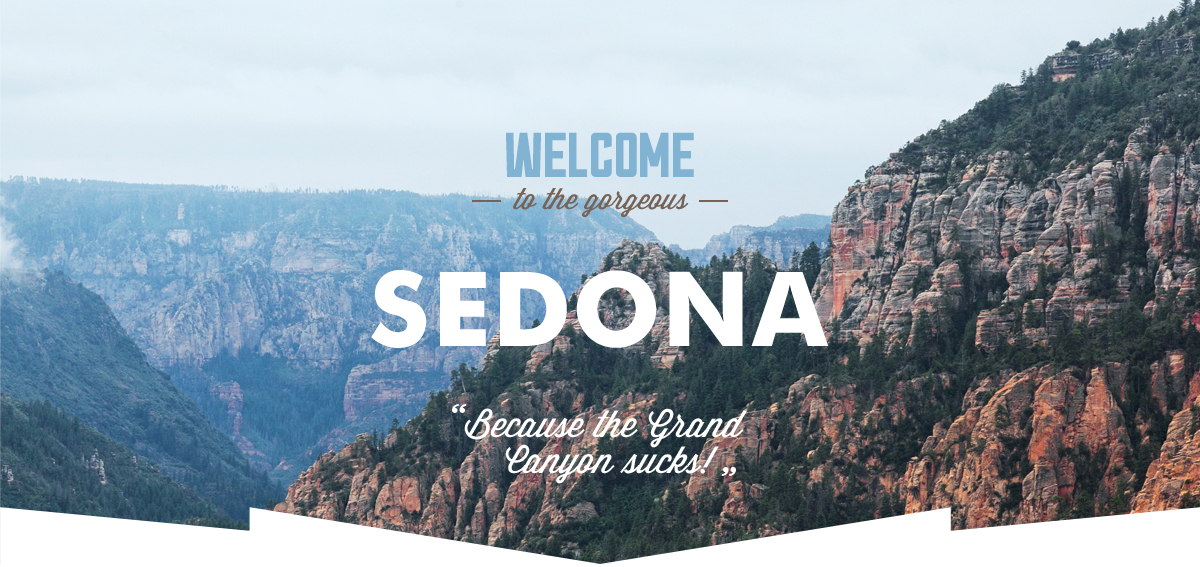
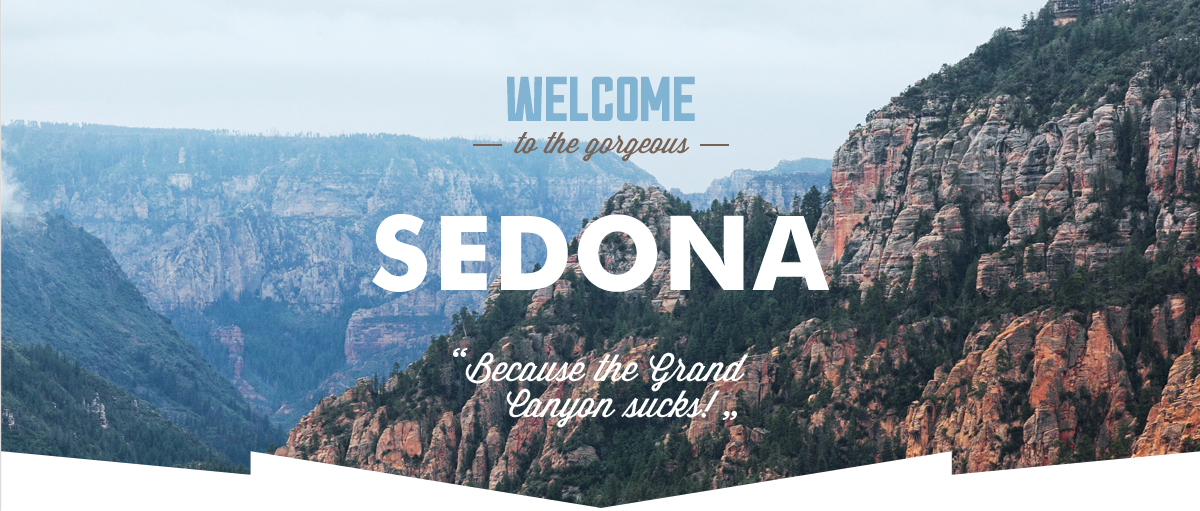
Откорретировал согласно пиксель перфект главную страницу

diff --git a/index.html b/index.html
@@ -30,15 +30,15 @@
     </header>
     <main>
       <div class="promo clearfix">
-        <h1 class="promo-header">Седона-небольшой городок в Аризоне, заслуживающий большего!</h1>
+        <h1 class="promo-header">Седона – небольшой городок в Аризоне, заслуживающий большего!</h1>
         <p class="promo-text">Рассмотрим 5 причин, по которым Седона круче, чем Гранд Каньон!</p>
       </div>
       <div class="features">
         <div class="features-row">
           <div class="feature-item item-blue">
             <h2 class="feature-item-name">Настоящий городок</h2>
-            <p class="feature-item-description"><span class="feature-number">–№1–</span>
-              Седона- не аттракцион для туристов, там течет своя жизнь</p>
+            <p class="feature-item-description"><span class="feature-number">– №1 –</span>
+              Седона – не аттракцион для туристов, <br>там течет своя жизнь</p>
             </div>
             <div class="feature-image">
               <img src="img/img1.jpg" alt="Седона" width="800" height="255">
@@ -63,25 +63,25 @@
               <img src="img/img2.jpg" alt="Седона-Горы" width="800" height="255">
             </div>
             <div class="feature-item item-blue">
-              <h2 class="feature-item-name">Там есть мост дьявола</h2>
-              <p class="feature-item-description"><span class="feature-number">–№2–</span>
+              <h2 class="feature-item-name">Там есть <br> мост дьявола</h2>
+              <p class="feature-item-description"><span class="feature-number">– №2 –</span>
                 Да, по нему можно пройти! Если, конечно, Вы осмелитесь</p>
               </div>
             </div>
             <div class="feature-row clearfix">
               <div class="feature-item item-grey">
                 <h2 class="feature-item-name">Небольшая площадь</h2>
-                <p class="feature-item-description"><span class="feature-number">–№3–</span>
-                  Все достопримечтальности находятся очень близко</p>
+                <p class="feature-item-description"><span class="feature-number">– №3 –</span>
+                  Все достопримечтальности<br> находятся очень близко</p>
                 </div>
                 <div class="feature-item item-grey">
                   <h2 class="feature-item-name">Красивая дорога</h2>
-                  <p class="feature-item-description"><span class="feature-number">–№4–</span>
-                    Ехать в Седону из Лас-Вегаса совсем не скучно!</p>
+                  <p class="feature-item-description"><span class="feature-number">– №4 –</span>
+                    Ехать в Седону из Лас-Вегаса совсем <br> не скучно!</p>
                   </div>
                   <div class="feature-item item-grey">
                     <h2 class="feature-item-name">Мало туристов</h2>
-                    <p class="feature-item-description"><span class="feature-number">–№5–</span>
+                    <p class="feature-item-description"><span class="feature-number">– №5 –</span>
                       Большинство едет в Гранд Каньон и толпится там</p>
                     </div>
                   </div>
@@ -89,12 +89,12 @@
                 <div class="hotel-search">
                   <p class="hotel-search-description">
                     <strong class="hotel-search-header">Заинтересовались?</strong>
-                    Укажите предполагаемые даты поездки, и мы покажем вам лучшие предположения гостиниц в Седоне
+                    Укажите предполагаемые даты поездки, <br> и мы покажем вам лучшие предположения гостиниц в Седоне
                   </p>
                   <a class="hotel-search-btn" href="form.html">Поиск гостиницы в Седоне</a>
                 </div>
                 <div class="map">
-                <iframe src="https://www.google.com/maps/embed?pb=!1m18!1m12!1m3!1d11010.621713624565!2d-111.76882647221784!3d34.86935596221434!2m3!1f0!2f0!3f0!3m2!1i1024!2i768!4f13.1!3m3!1m2!1s0x872da132f942b00d%3A0x5548c523fa6c8efd!2z0KHQtdC00L7QvdCwLCDQkNGA0LjQt9C-0L3QsCA4NjMzNiwg0KHQqNCQ!5e0!3m2!1sru!2sru!4v1472930171317" width="1200" height="593" frameborder="0" style="border:0" allowfullscreen></iframe>
+                <iframe src="https://www.google.com/maps/embed?pb=!1m18!1m12!1m3!1d351894.205368811!2d-111.92732394351516!3d34.97323105600378!2m3!1f0!2f0!3f0!3m2!1i1024!2i768!4f13.1!3m3!1m2!1s0x872da132f942b00d%3A0x5548c523fa6c8efd!2z0KHQtdC00L7QvdCwLCDQkNGA0LjQt9C-0L3QsCA4NjMzNiwg0KHQqNCQ!5e0!3m2!1sru!2sru!4v1473098733095" width="1200" height="593" frameborder="0" style="border:0" allowfullscreen></iframe>
                 </div>
               </main>
               <footer class="footer-area footer-mainpage clearfix">

diff --git a/css/style.css b/css/style.css
@@ -70,6 +70,8 @@ h2 {
     color: #000;
 }
 
+.main-nav-item a:nth-child(1) {}
+
 .main-nav-item a:hover {
     color: #81b3d2;
 }
@@ -114,8 +116,8 @@ h2 {
 
 .footer-area {
     width: 100%;
-    padding-top: 24px;
-    padding-bottom: 24px;
+    padding-top: 26px;
+    padding-bottom: 27px;
     background-color: #ffffff;
 }
 
@@ -206,13 +208,13 @@ h2 {
 /*index.html*/
 .header-intro {
     width: 100%;
-    height: 567px;
+    height: 511px;
     background: #81b3d2 url("../img/header_bg.jpg") no-repeat;
 }
 
 .promo {
     width: 500px;
-    padding-top: 56px;
+    padding-top: 58px;
     padding-right: 350px;
     padding-left: 350px;
     background-color: white;
@@ -220,7 +222,7 @@ h2 {
 
 .promo-header {
     margin: 0;
-    padding-bottom: 40px;
+    padding-bottom: 27px;
     text-align: center;
     font-size: 21px;
     line-height: 26px;
@@ -228,18 +230,19 @@ h2 {
 
 .promo-text {
     margin: 0;
-    margin-bottom: 56px;
+    margin-bottom: 51px;
     text-align: center;
     font-size: 14px;
     line-height: 26px;
     font-weight: 400;
+    letter-spacing: 0.1px;
     color: #333;
 }
 
 .feature-item {
     float: left;
     width: 275px;
-    padding-top: 57px;
+    padding-top: 55px;
     padding-right: 63px;
     padding-left: 62px;
     text-align: center;
@@ -250,7 +253,7 @@ h2 {
     position: relative;
     width: 160px;
     margin: 0;
-    margin-bottom: 27px;
+    margin-bottom: 23px;
     padding-right: 57px;
     padding-left: 57px;
     font-size: 21px;
@@ -260,7 +263,7 @@ h2 {
 
 .feature-number {
     display: block;
-    margin-bottom: 14px;
+    margin-bottom: 21px;
     color: white;
     font-size: 14px;
     font-weight: 400;
@@ -268,8 +271,11 @@ h2 {
 }
 
 .feature-item-description {
+    width: 277px;
     margin: 0;
-    padding-bottom: 42px;
+    padding-bottom: 51px;
+    font-size: 14px;
+    line-height: 21px;
     color: white;
 }
 
@@ -290,57 +296,67 @@ h2 {
     background-color: #81b3d2;
 }
 
+.item-blue .feature-item-description {
+
+}
+
 .item-blue .feature-item-name {
     color: #fff;
 }
 
 .item-white {
     padding-top: 163px;
-    padding-bottom: 33px;
+    padding-bottom: 31px;
     background-color: #fff;
 }
 
 .house-item::before{
     content: "";
-    position: absolute; 
+    position: absolute;
     width: 72px;
-    height: 75px; 
+    height: 75px;
     left: 100px;
-    bottom: 47px; 
-    background: url("../img/house-icon.png") no-repeat; 
+    bottom: 47px;
+    background: url("../img/house-icon.png") no-repeat;
 }
 
 .food-item::before {
     content: "";
-    position: absolute; 
+    position: absolute;
     width: 72px;
-    height: 75px; 
+    height: 75px;
     left: 100px;
-    bottom: 47px; 
-    background: url("../img/food-icon.png") no-repeat; 
+    bottom: 47px;
+    background: url("../img/food-icon.png") no-repeat;
 }
 
 .souvenirs-item::before {
     content: "";
-    position: absolute; 
+    position: absolute;
     width: 72px;
-    height: 75px; 
-    left: 100px;
-    bottom: 47px; 
+    height: 75px;
+    left: 105px;
+    bottom: 52px;
     background: url("../img/souvenir-icon.png") no-repeat;
 }
 
 .item-white .feature-item-description,
 .item-grey .feature-item-description {
+    width: 285px;
     font-size: 14px;
     line-height: 21px;
     color: #333;
 }
 
 .item-grey {
+    padding-top: 48px;
     padding-bottom: 10px;
     background-color: #eee;
 }
+
+.item-grey .feature-item {}
+
+.item-grey .feature-item-description {}
 
 .item-grey .feature-number {
     color: #333;
@@ -370,7 +386,7 @@ h2 {
 
 .hotel-search-description {
     margin: 0;
-    padding-bottom: 50px;
+    padding-bottom: 47px;
     font-size: 14px;
     line-height: 24px;
     color: #333;
@@ -409,23 +425,23 @@ h2 {
 /*popup form*/
 .modal {
     position: absolute;
-    top: 2240px;
+    top: 2170px;
     left: 50%;
     display: none;
     width: 570px;
     width: 458px;
     margin-left: -285px;
-    padding: 56px 56px 56px 56px;
+    padding: 56px 55px 56px 56px;
     font-weight: 700;
     line-height: 26px;
     background-color: #fff;
 }
 
 .modal input {
-    width: 300px;
+    width: 306px;
     margin-left: 17px;
     padding-top: 3px;
-    padding-right: 30px;
+    padding-right: 26px;
     padding-bottom: 3px;
     padding-left: 10px;
     text-transform: uppercase;
@@ -481,28 +497,34 @@ h2 {
 
 .arrival-date-field,
 .departure-date-field,
-.adults-count-field,
-.child-count-field {
+.adults-count-field
+ {
     position: relative;
     display: block;
-    margin-bottom: 27px;
+    margin-bottom: 31px;
+}
+
+.child-count-field {
+  position: relative;
+  display: block;
+  margin-bottom: 57px;
 }
 
 .arrival-date-field .calendar {
     top: 8px;
-    left: 430px;
+    left: 426px;
 }
 
 .departure-date-field .calendar {
     top: 8px;
-    left: 430px;
+    left: 426px;
 }
 
 .adults-count-field input,
 .child-count-field input {
     width: 37px;
     padding-top: 3px;
-    padding-right: 37px;
+    padding-right: 39px;
     padding-bottom: 3px;
     padding-left: 37px;
     text-align: center;
@@ -517,8 +539,8 @@ h2 {
 }
 
 .btn-plus {
-    top: 5px;
-    left: 204px;
+    top: 7px;
+    left: 201px;
     background-position: -620px -3px;
 }
 
@@ -531,8 +553,8 @@ h2 {
 }
 
 .btn-minus {
-    top: 5px;
-    left: 127px;
+    top: 6px;
+    left: 121px;
     background-position: -525px 2px;
 }
 
@@ -559,7 +581,7 @@ h2 {
 }
 
 .child-count-field label {
-    margin-left: 50px;
+    margin-left: 47px;
 }
 
 .modal .search-button {
